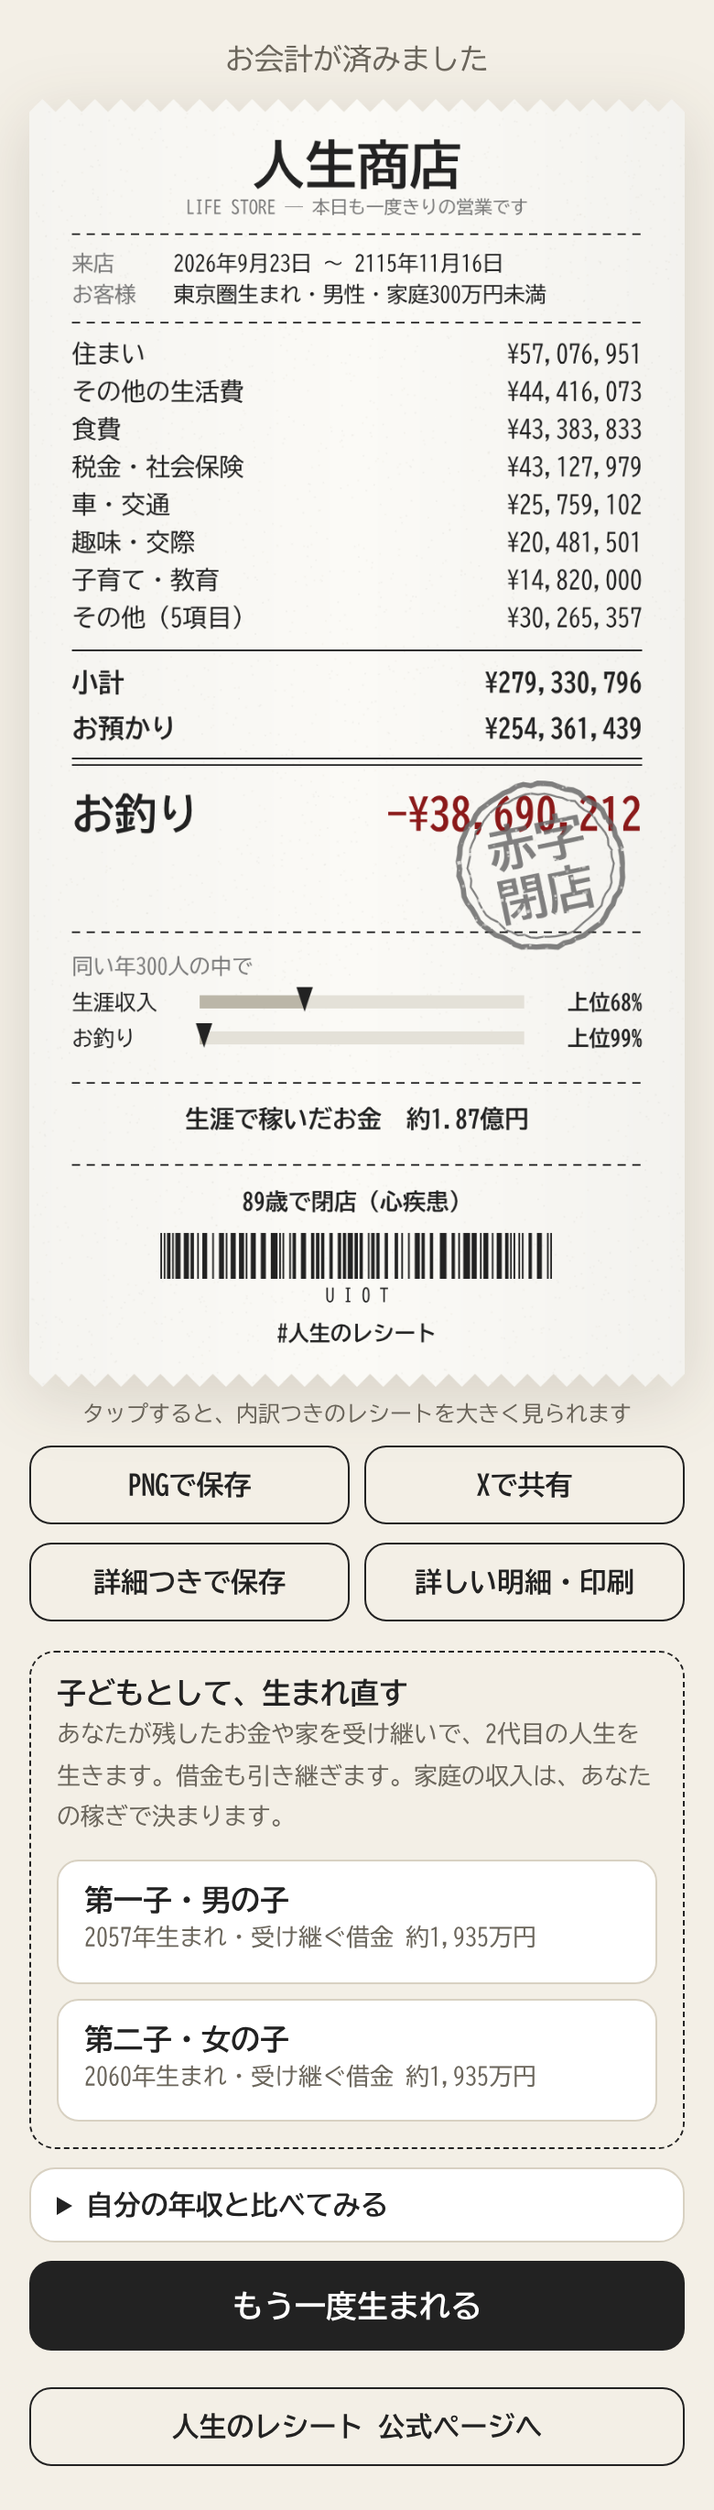
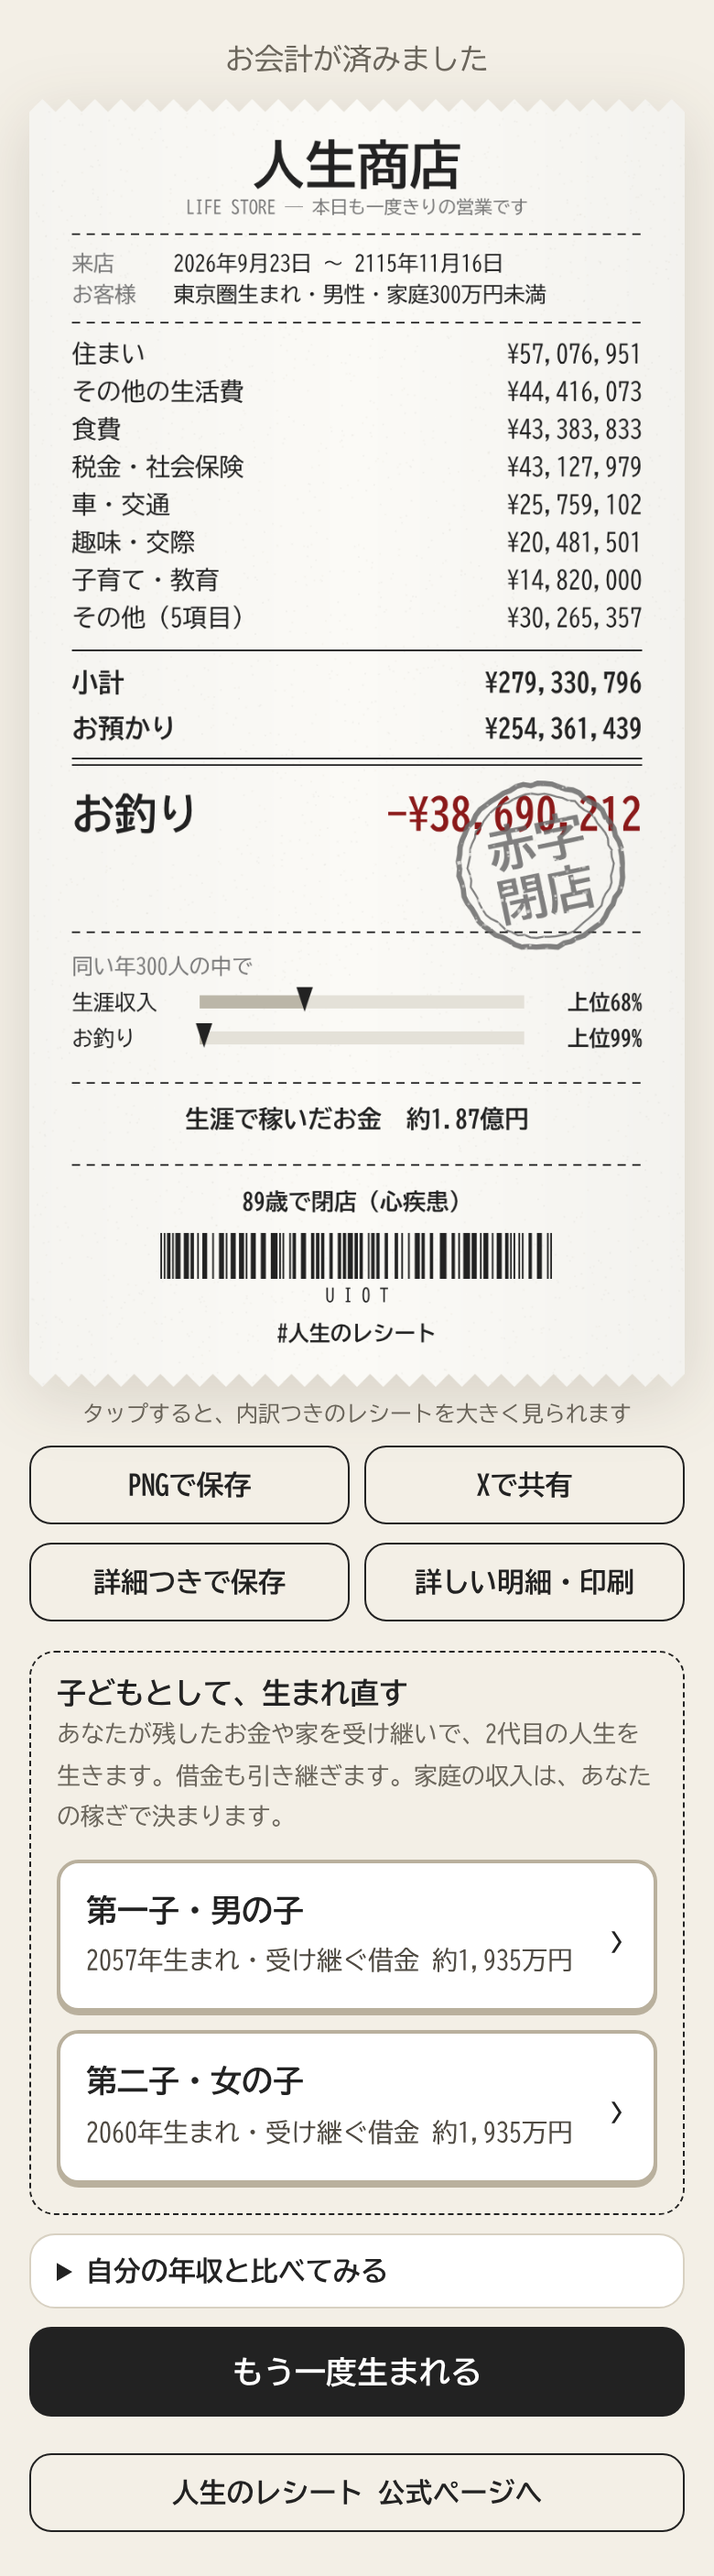
選択画面を見やすくした
- 後ろの画面を暗くし、選択画面との境目をはっきりさせた
- 選択肢を枠の濃いカードにし、右端に「›」をつけて押せることを示した
- 説明文の文字を大きく、濃くした
- 選んだ選択肢は黒く反転し、チェックがつく
- お金の振り分け：内訳に色の見本をつけ、「決める」ボタンを常に画面の下に出す

Claude-Session: https://claude.ai/code/session_01P8h7G7H9Hz4F9jwmunJGJH

Changed region(s): [[0.0308, 0.0, 0.9538, 0.9927], [0.3385, 0.0, 0.4308, 0.031], [0.6462, 0.0, 0.6769, 0.031]]

diff --git a/src/style.css b/src/style.css
@@ -393,11 +393,12 @@ button {
   font-size: 12px;
 }
 
-/* ── 選択場面 ── */
+/* ── 選択場面 ──
+   後ろのゲーム画面をしっかり暗くし、選択肢は「押せるカード」とひと目で分かるようにする */
 .sheet-bg {
   position: fixed;
   inset: 0;
-  background: rgba(34, 30, 24, 0.45);
+  background: rgba(34, 30, 24, 0.62);
   display: flex;
   align-items: flex-end;
   justify-content: center;
@@ -417,6 +418,7 @@ button {
   overflow-y: auto;
   border-radius: 18px 18px 0 0;
   padding: 20px 16px calc(20px + var(--safe-b));
+  box-shadow: 0 -8px 30px rgba(0, 0, 0, 0.25);
   animation: up 0.3s ease-out;
 }
 @keyframes up {
@@ -426,70 +428,124 @@ button {
   }
 }
 .sheet .tag {
-  font-size: 12px;
-  color: var(--red);
+  display: inline-block;
+  font-size: 12.5px;
+  color: #fff;
+  background: var(--red);
   font-weight: 700;
-  letter-spacing: 0.1em;
+  letter-spacing: 0.08em;
+  padding: 3px 10px;
+  border-radius: 99px;
 }
 .sheet h2 {
-  margin: 4px 0 6px;
-  font-size: 21px;
+  margin: 8px 0 6px;
+  font-size: 22px;
+  line-height: 1.4;
 }
 .sheet .sit {
-  font-size: 14px;
-  line-height: 1.7;
-  color: var(--sub);
-  margin: 0 0 14px;
+  font-size: 15px;
+  line-height: 1.75;
+  color: var(--ink);
+  margin: 0 0 16px;
 }
 .opt {
+  position: relative;
   display: block;
   width: 100%;
   text-align: left;
-  border: 1.5px solid var(--line);
+  font: inherit;
+  color: var(--ink);
+  border: 2px solid #b9b09d;
   background: #fff;
   border-radius: 12px;
-  padding: 13px 14px;
-  margin-bottom: 8px;
+  padding: 14px 40px 14px 14px;
+  margin-bottom: 10px;
+  box-shadow: 0 2px 0 #b9b09d;
   cursor: pointer;
+  transition: transform 0.08s, box-shadow 0.08s, background 0.12s;
+}
+/* 右端の「›」で、押せることを示す */
+.opt::after {
+  content: "›";
+  position: absolute;
+  right: 14px;
+  top: 50%;
+  transform: translateY(-50%);
+  font-size: 26px;
+  line-height: 1;
+  color: var(--ink);
 }
 .opt b {
   display: block;
-  font-size: 16px;
-  margin-bottom: 3px;
+  font-size: 17px;
+  line-height: 1.45;
+  margin-bottom: 4px;
 }
 .opt span {
-  font-size: 13px;
-  color: var(--sub);
-  line-height: 1.6;
+  display: block;
+  font-size: 14px;
+  color: #4f4a42;
+  line-height: 1.65;
 }
-.opt:active,
+@media (hover: hover) {
+  .opt:hover {
+    border-color: var(--ink);
+    box-shadow: 0 2px 0 var(--ink);
+  }
+}
+.opt:focus-visible {
+  outline: 3px solid var(--red);
+  outline-offset: 2px;
+}
+.opt:active {
+  transform: translateY(2px);
+  box-shadow: 0 0 0 #b9b09d;
+}
 .opt.picked {
   border-color: var(--ink);
-  background: var(--bg);
+  background: var(--ink);
+  box-shadow: 0 0 0 var(--ink);
+  transform: translateY(2px);
+  color: var(--paper);
+}
+.opt.picked span {
+  color: #e6e1d6;
+}
+.opt.picked::after {
+  content: "✓";
+  font-size: 20px;
+  color: var(--paper);
 }
 
 /* ── お金の振り分け ── */
-.sheet.alloc { max-height: 92vh; overflow-y: auto; }
-.al-bar { display: flex; height: 30px; border-radius: 8px; overflow: hidden; margin: 4px 0 6px; border: 1.5px solid var(--ink); }
-.al-bar i { display: flex; align-items: center; justify-content: center; font-style: normal; font-size: 11px; font-weight: 700; color: #fff; white-space: nowrap; overflow: hidden; transition: flex 0.2s ease-out; }
-.al-legend { font-size: 12px; color: var(--sub); margin-bottom: 10px; }
-.al-bar .al-living, .al-row.al-living .al-name { background: #d99a2b; }
-.al-bar .al-save, .al-row.al-save .al-name { background: #4f7fbf; }
-.al-bar .al-invest, .al-row.al-invest .al-name { background: #4e9a62; }
-.al-bar .al-family, .al-row.al-family .al-name { background: #c9534f; }
-.al-bar .al-self, .al-row.al-self .al-name { background: #8a6bbf; }
-.al-presets { display: grid; grid-template-columns: 1fr 1fr; gap: 8px; margin-bottom: 8px; }
-.al-presets .opt { padding: 9px 10px; margin: 0; }
-.al-presets .opt b { font-size: 14.5px; margin-bottom: 2px; }
-.al-presets .opt span { font-size: 11.5px; line-height: 1.5; display: block; }
-.al-tune-btn { display: block; width: 100%; margin: 2px 0 10px; padding: 10px; border: 1.5px dashed var(--ink); border-radius: 10px; background: none; font: inherit; font-size: 14px; font-weight: 700; cursor: pointer; }
+.sheet.alloc { padding-bottom: 0; }
+.al-bar { display: flex; height: 34px; border-radius: 8px; overflow: hidden; margin: 4px 0 8px; border: 1.5px solid var(--ink); }
+.al-bar i { display: flex; align-items: center; justify-content: center; font-style: normal; font-size: 12px; font-weight: 700; color: #fff; white-space: nowrap; overflow: hidden; transition: flex 0.2s ease-out; }
+/* 色の見本つきの内訳。帯に名前が入らない小さな割合も、ここで読める */
+.al-legend { display: flex; flex-wrap: wrap; gap: 4px 12px; font-size: 13.5px; font-weight: 700; margin-bottom: 12px; }
+.al-legend span { display: inline-flex; align-items: center; gap: 5px; }
+.al-legend i { display: inline-block; width: 12px; height: 12px; border-radius: 3px; }
+.al-bar .al-living, .al-row.al-living .al-name, .al-legend .al-living { background: #d99a2b; }
+.al-bar .al-save, .al-row.al-save .al-name, .al-legend .al-save { background: #4f7fbf; }
+.al-bar .al-invest, .al-row.al-invest .al-name, .al-legend .al-invest { background: #4e9a62; }
+.al-bar .al-family, .al-row.al-family .al-name, .al-legend .al-family { background: #c9534f; }
+.al-bar .al-self, .al-row.al-self .al-name, .al-legend .al-self { background: #8a6bbf; }
+.al-presets { display: grid; grid-template-columns: 1fr 1fr; gap: 10px; margin-bottom: 10px; }
+.al-presets .opt { padding: 10px 10px 12px; margin: 0; }
+.al-presets .opt::after { content: none; }
+.al-presets .opt.picked::after { content: "✓"; top: 12px; right: 10px; transform: none; font-size: 17px; }
+.al-presets .opt b { font-size: 15.5px; margin-bottom: 3px; padding-right: 16px; }
+.al-presets .opt span { font-size: 12.5px; line-height: 1.55; }
+.al-tune-btn { display: block; width: 100%; margin: 2px 0 10px; padding: 12px; border: 1.5px dashed var(--ink); border-radius: 10px; background: none; color: var(--ink); font: inherit; font-size: 14.5px; font-weight: 700; cursor: pointer; }
 .al-tune { margin-bottom: 10px; }
-.al-row { display: grid; grid-template-columns: 4.2em 1fr 3em; align-items: center; gap: 8px; padding: 6px 0; border-bottom: 1px dashed var(--line); }
-.al-row .al-name { color: #fff; font-size: 12px; font-weight: 700; text-align: center; border-radius: 6px; padding: 3px 0; }
-.al-row input { width: 100%; }
-.al-row .al-rest { font-size: 12px; color: var(--sub); }
-.al-row .al-val { text-align: right; font-size: 15px; }
-.al-row small { grid-column: 1 / -1; font-size: 11.5px; color: var(--sub); line-height: 1.5; }
+.al-row { display: grid; grid-template-columns: 4.2em 1fr 3em; align-items: center; gap: 8px; padding: 8px 0; border-bottom: 1px dashed var(--line); }
+.al-row .al-name { color: #fff; font-size: 12.5px; font-weight: 700; text-align: center; border-radius: 6px; padding: 4px 0; }
+.al-row input { width: 100%; height: 28px; accent-color: var(--ink); }
+.al-row .al-rest { font-size: 13px; color: var(--sub); }
+.al-row .al-val { text-align: right; font-size: 16px; }
+.al-row small { grid-column: 1 / -1; font-size: 12.5px; color: #4f4a42; line-height: 1.55; }
+/* 「決める」ボタンは、下にスクロールしなくても常に見える */
+.al-go { position: sticky; bottom: 0; margin: 0 -16px; padding: 10px 16px calc(14px + var(--safe-b)); background: var(--paper); border-top: 1px solid var(--line); }
 
 /* ── 子どもとして生まれ直す ── */
 .heir {
@@ -720,7 +776,9 @@ button {
 
 /* 小さな選択は、大きな分かれ道より軽い見た目にする */
 .sheet.small .tag {
-  color: var(--sub);
+  color: var(--ink);
+  background: var(--bg);
+  border: 1px solid var(--line);
 }
 .sheet.small h2 {
   font-size: 18px;
@@ -924,6 +982,8 @@ button {
   margin: 12px 0 12px;
 }
 .ch-next {
+  padding: 14px;
+  box-shadow: 0 2px 0 #000;
   text-align: center;
   background: var(--ink);
   color: var(--paper);
@@ -931,6 +991,9 @@ button {
 }
 .ch-next b {
   margin: 0;
+}
+.ch-next::after {
+  color: var(--paper);
 }
 .lp-link {
   margin-top: 10px;

diff --git a/src/main.ts b/src/main.ts
@@ -435,7 +435,7 @@ class Game {
           )
           .join("")}
       </div>
-      <button class="btn" id="allocGo">この割合で決める</button>
+      <div class="al-go"><button class="btn" id="allocGo">この割合で決める</button></div>
     </div></div>`);
     document.body.append(bg);
     const draw = () => {
@@ -443,10 +443,10 @@ class Game {
         .filter((k) => cur[k] > 0)
         .map((k) => `<i class="al-${k}" style="flex:${cur[k]}">${cur[k] >= 2 ? `${ALLOC_LABEL[k]}${cur[k] * 10}%` : ""}</i>`)
         .join("");
-      bg.querySelector<HTMLElement>(".al-legend")!.textContent = keys
+      bg.querySelector<HTMLElement>(".al-legend")!.innerHTML = keys
         .filter((k) => cur[k] > 0)
-        .map((k) => `${ALLOC_LABEL[k]}${cur[k] * 10}%`)
-        .join("・");
+        .map((k) => `<span><i class="al-${k}"></i>${ALLOC_LABEL[k]}${cur[k] * 10}%</span>`)
+        .join("");
       bg.querySelectorAll<HTMLInputElement>(".al-tune input").forEach((inp) => (inp.value = String(cur[inp.dataset.k as keyof Alloc])));
       bg.querySelectorAll<HTMLElement>(".al-val").forEach((el) => (el.textContent = `${cur[el.dataset.v as keyof Alloc] * 10}%`));
       bg.querySelectorAll<HTMLElement>(".al-presets .opt").forEach((b) => b.classList.toggle("picked", b.dataset.id === picked));
